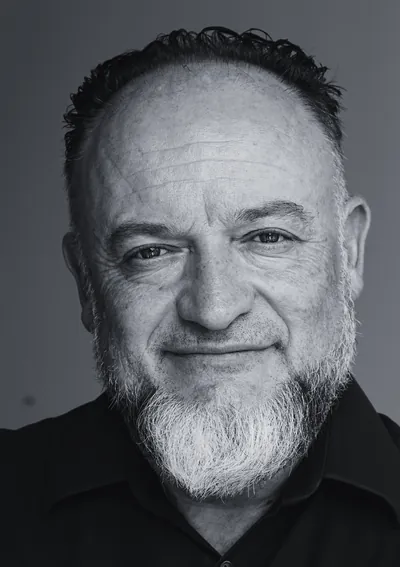
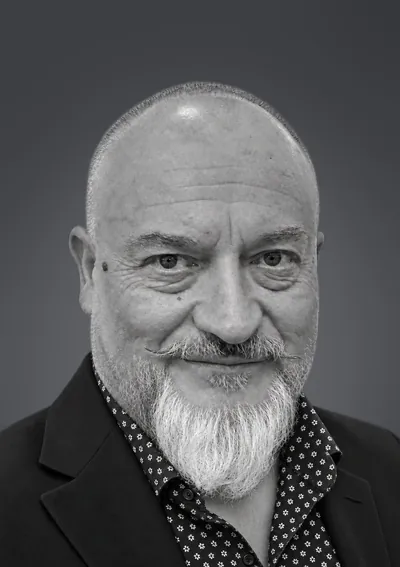
Foto de autor nueva (rapado y bigote, fondo oscuro con halo)
Claude-Session: https://claude.ai/code/session_011TtoJW3US66vYMwu4a7Bmt

diff --git a/index.html b/index.html
@@ -17,7 +17,7 @@
   <meta property="og:url" content="https://manelrueda.com/">
   <meta property="og:type" content="profile">
   <meta property="og:locale" content="es_ES">
-  <meta property="og:image" content="https://manelrueda.com/assets/og-manel-rueda.jpg">
+  <meta property="og:image" content="https://manelrueda.com/assets/og-manel-rueda.jpg?v=2">
   <meta property="og:image:width" content="1200">
   <meta property="og:image:height" content="630">
   <meta property="og:image:alt" content="Retrato de Manel Rueda">
@@ -26,7 +26,7 @@
   <meta name="twitter:card" content="summary_large_image">
   <meta name="twitter:title" content="Manel Rueda · Autor de El Ikigai que no te contaron">
   <meta name="twitter:description" content="Sitio oficial de Manel Rueda, autor de El Ikigai que no te contaron y creador de IKIGAIER: libros, test de ikigai y talleres.">
-  <meta name="twitter:image" content="https://manelrueda.com/assets/og-manel-rueda.jpg">
+  <meta name="twitter:image" content="https://manelrueda.com/assets/og-manel-rueda.jpg?v=2">
   <meta name="twitter:image:alt" content="Retrato de Manel Rueda">
 
   <script type="application/ld+json">
@@ -62,7 +62,7 @@
       },
       "primaryImageOfPage": {
         "@type": "ImageObject",
-        "url": "https://manelrueda.com/assets/og-manel-rueda.jpg",
+        "url": "https://manelrueda.com/assets/og-manel-rueda.jpg?v=2",
         "width": 1200,
         "height": 630
       },
@@ -74,7 +74,7 @@
       "@id": "https://www.ikigaier.com/#person",
       "name": "Manel Rueda",
       "url": "https://manelrueda.com/",
-      "image": "https://manelrueda.com/assets/manel-rueda-retrato-400.jpg",
+      "image": "https://manelrueda.com/assets/manel-rueda-retrato-400.jpg?v=2",
       "jobTitle": "Autor",
       "description": "Autor y creador de IKIGAIER. Escribe sobre el ikigai consciente y la unión del hacer y el ser.",
       "worksFor": {
@@ -333,10 +333,10 @@
     <section class="portada" aria-label="Portada de Manel Rueda">
       <div class="portada-col-texto">
         <picture>
-          <source srcset="assets/manel-rueda-retrato-400.webp" type="image/webp">
+          <source srcset="assets/manel-rueda-retrato-400.webp?v=2" type="image/webp">
           <img
             class="portada-img"
-            src="assets/manel-rueda-retrato-400.jpg"
+            src="assets/manel-rueda-retrato-400.jpg?v=2"
             alt="Retrato de Manel Rueda"
             width="200"
             height="284"
